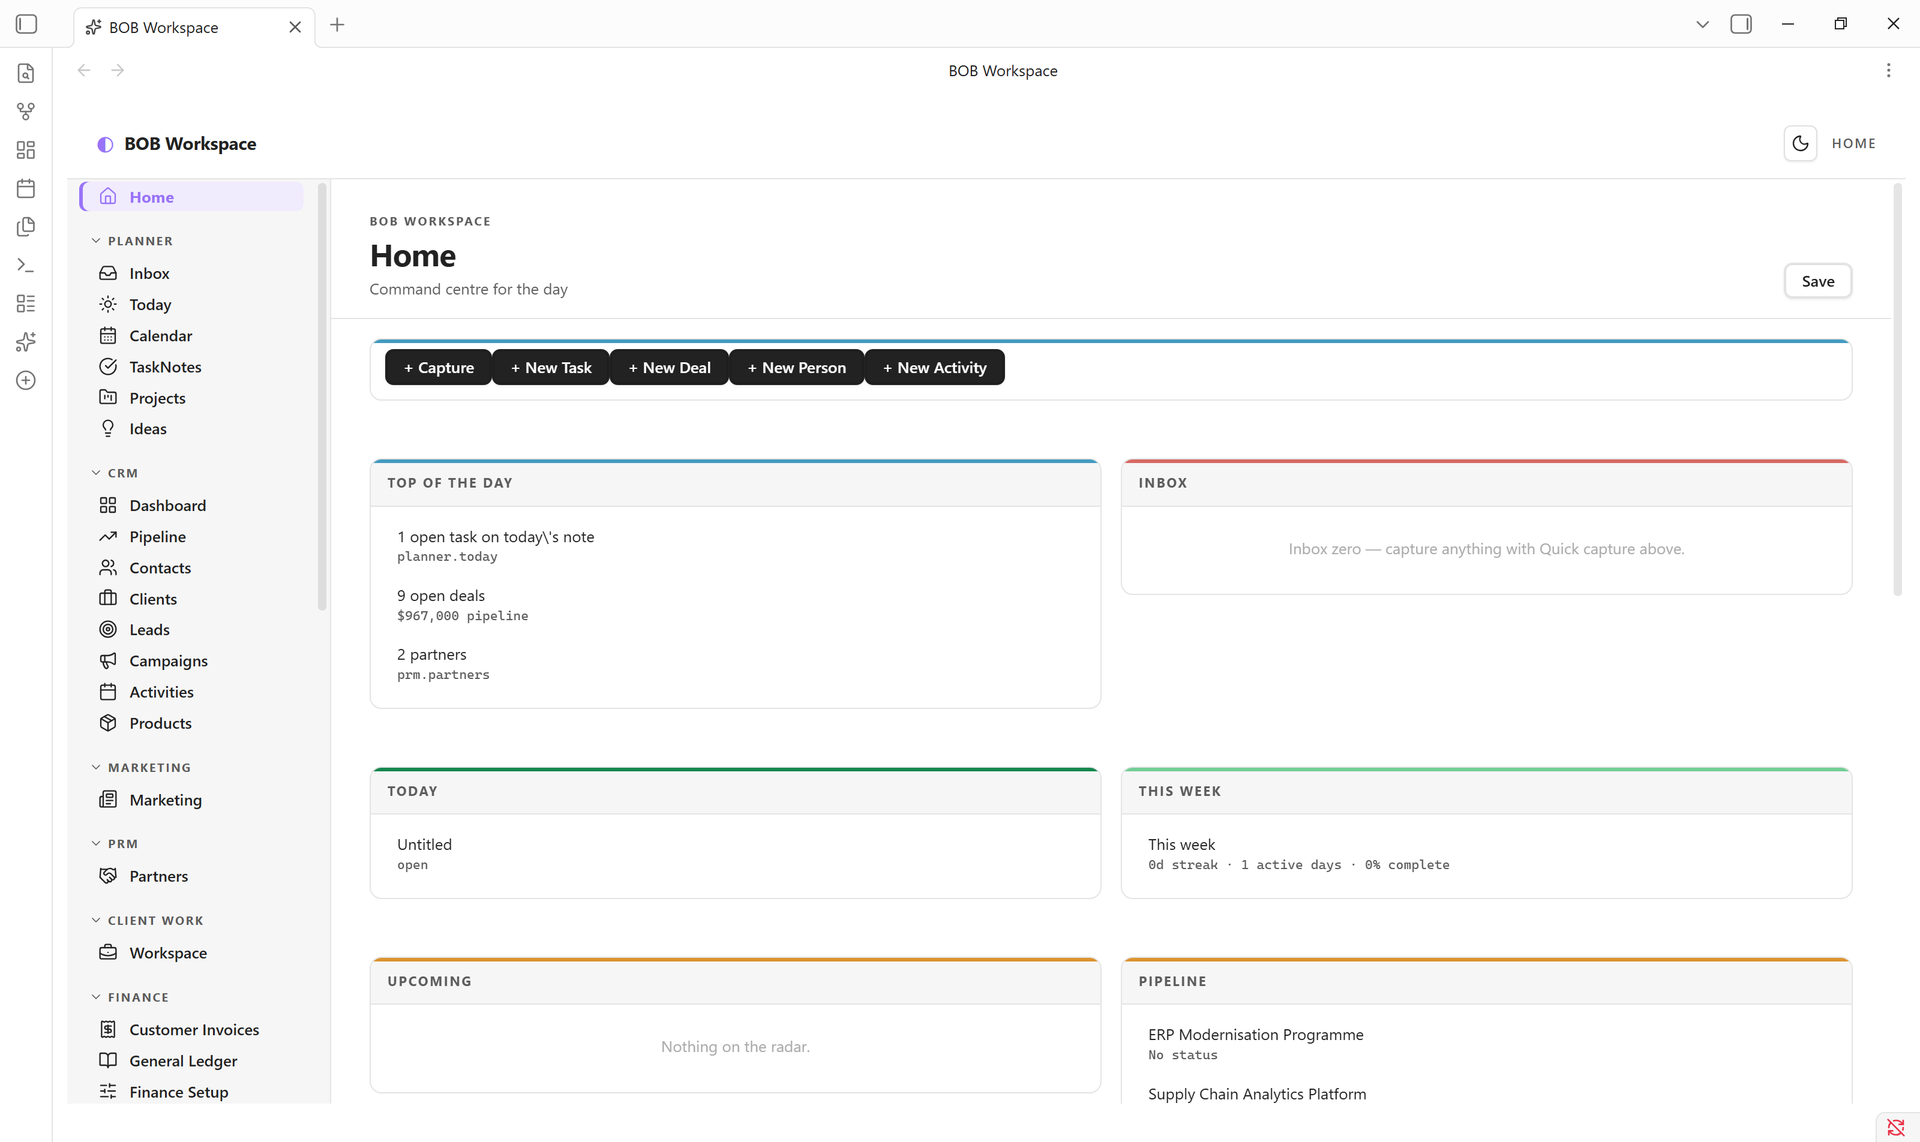
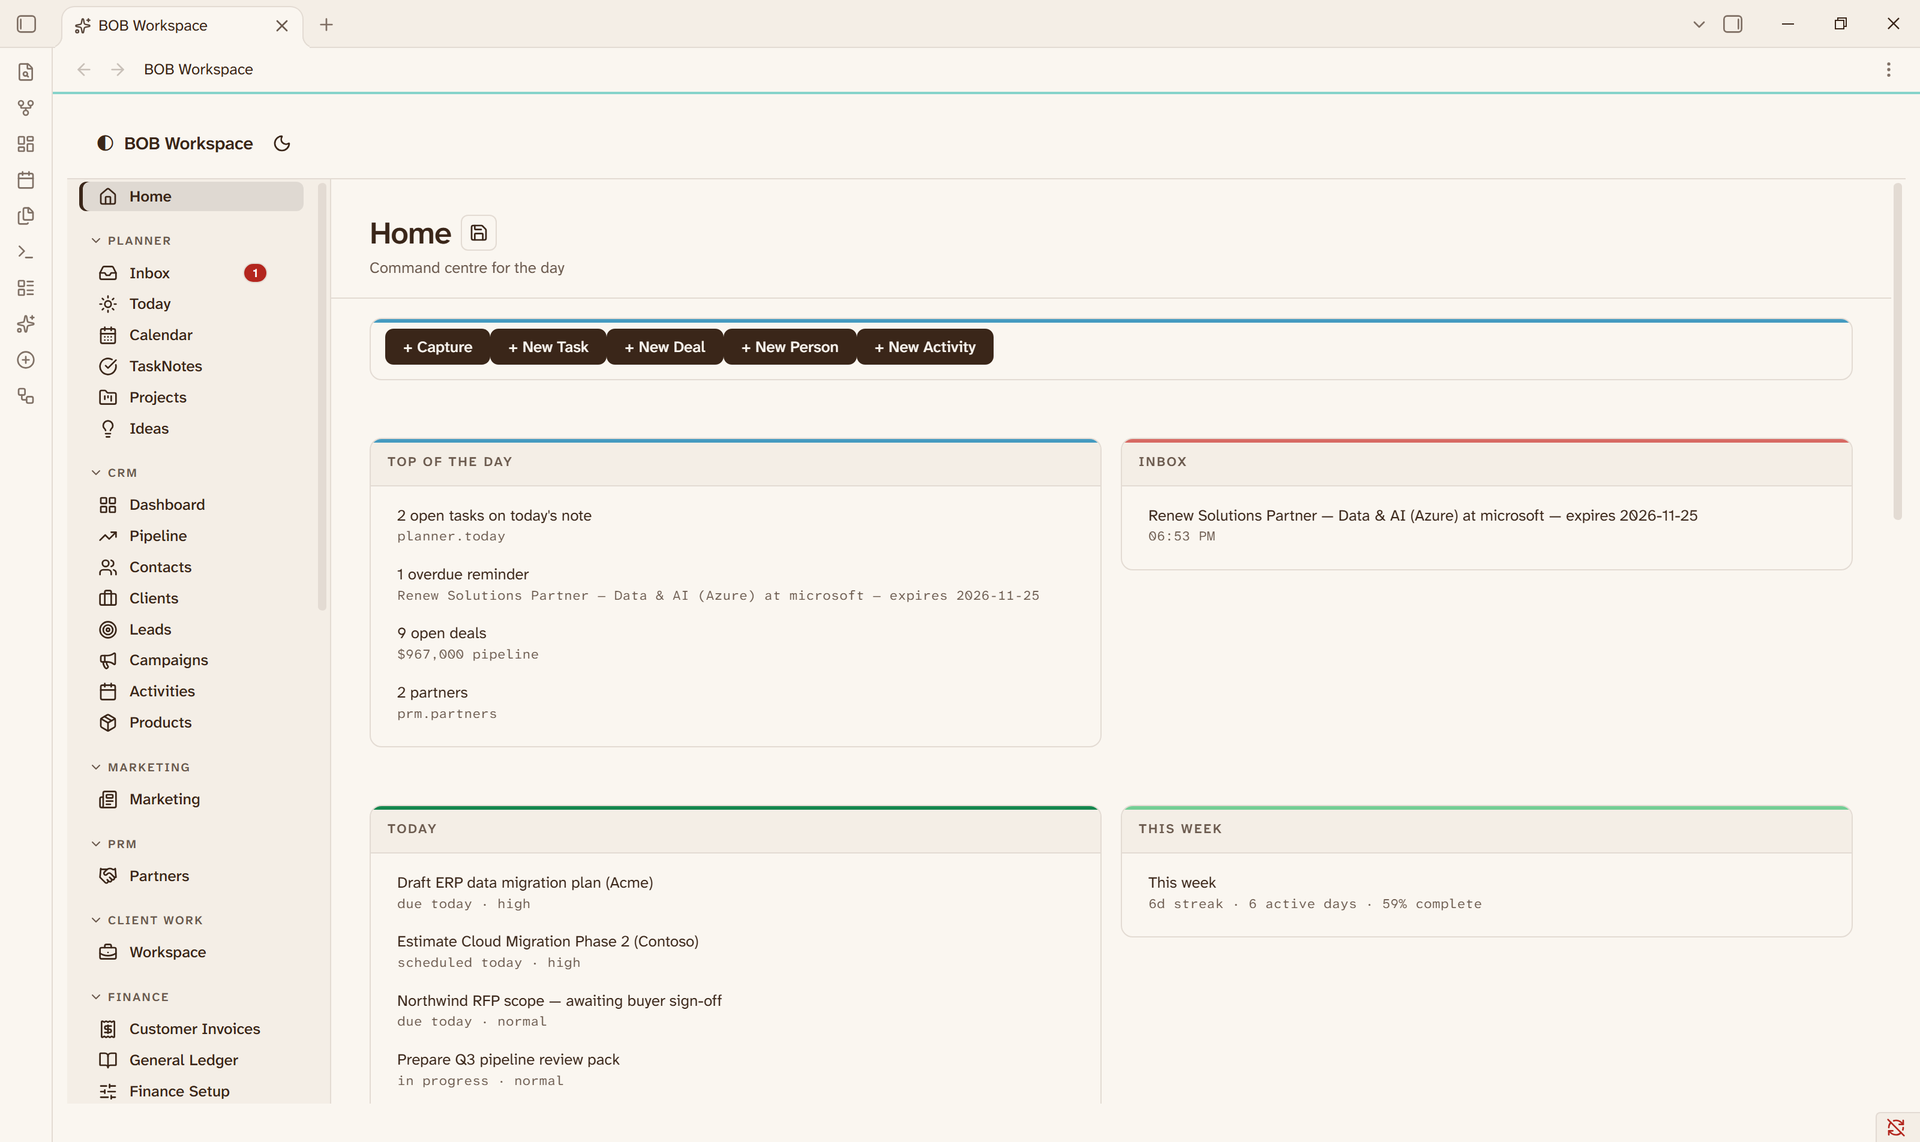
Replace README screenshots with 15 current demo-vault captures
Each image now sits beside its feature section (Planner, CRM, PRM, Client Work,
Finance, Suppliers, Projects, Reports, Canvas, AI Workspace, Bases-backed
views) instead of a 7-image gallery from 2026-07. Captured 2026-10-31 from the
fictional bob-demo vault with the ThirdBrain BOB theme and locale en-US, after
the display fixes in this release line. SUBMISSION.md lists the new set.

diff --git a/README.md b/README.md
@@ -10,20 +10,9 @@ Start with the [empty-vault quickstart](docs/empty-vault-quickstart.md) or [exis
 
 💬 **Docs, support, and community:** join the **ThirdBrain BOB** Skool community → https://www.skool.com/thirdbrain-tech-3102
 
-![BOB Workspace Home](docs/screenshots/01-home.png)
+![BOB Workspace Home — today's tasks, pipeline and reminders in one tab](docs/screenshots/01-home.png)
 
-## Screenshots
-
-|  |  |
-|---|---|
-| **CRM Pipeline** — deal kanban across stages | **CRM Dashboard** — metrics, recent leads & activity |
-| ![CRM Pipeline](docs/screenshots/02-pipeline.png) | ![CRM Dashboard](docs/screenshots/03-crm-dashboard.png) |
-| **Clients** — entity list with rich frontmatter | **Projects** — milestone progress across active work |
-| ![Clients](docs/screenshots/04-clients.png) | ![Projects](docs/screenshots/05-projects.png) |
-| **Customer Invoices** — finance & accounting surfaces | **AI Playbooks** — reusable, schema-backed workflows |
-| ![Customer Invoices](docs/screenshots/06-invoices.png) | ![AI Playbooks](docs/screenshots/07-playbooks.png) |
-
-*(Screenshots use a fictional demo vault — Acme / Contoso / Fabrikam — not real client data.)*
+*Screenshots throughout this README come from a fictional demo vault (Acme, Contoso, Fabrikam, Northwind, Adventure Works) — no real client data.*
 
 ---
 
@@ -52,25 +41,45 @@ Two-column dashboard: today's tasks (tickable inline) · this week's progress ·
 - **Projects** — status-grouped card grid with milestone progress and next-up dates
 - **Inbox** — universal capture + reminders; items grouped by Now / Today / This Week / Later
 
+![Planner Today — the daily note's tasks and journal](docs/screenshots/02-today.png)
+
+![Planner Calendar — tasks per day across the week](docs/screenshots/03-calendar.png)
+
 ### CRM
 - **Dashboard** — pipeline-by-stage bars, hot deals (top by value), stale deals (no edits in 14+ days), recent activity, customer base mini-stats
 - **Pipeline** — kanban board across deal stages; drag-and-drop a card to update its `stage` frontmatter; Won column gets a soft emerald tint
 - **Contacts / Companies / Activities** — sortable list views with rich frontmatter editing
 
+![CRM Pipeline — deal kanban with weighted forecast](docs/screenshots/04-pipeline.png)
+
+![CRM Dashboard — leads, contacts, campaigns and activities](docs/screenshots/05-crm-dashboard.png)
+
+![Contacts — a sortable entity list backed by markdown frontmatter](docs/screenshots/06-contacts.png)
+
 ### PRM
 Partners · Registrations · Commissions · Leads · Certifications · Analytics — same entity-list pattern, in their own folders, with status enums and Reports that aggregate across them.
+
+![PRM Partners — pending registrations, open commissions and expiring certifications](docs/screenshots/07-partners.png)
 
 ### Client Work
 A delivery overview across everything you do *for* a client after the deal is won: Meetings, Comms, Deliverables, Feedback, Surveys, Testimonials, Decisions — each its own tab, with client/project selectors that filter the whole workspace to one engagement.
 
+![Client Work — meetings, deliverables, comms, feedback and decisions for every engagement](docs/screenshots/08-client-work.png)
+
 ### Finance
 Customer Invoices, General Ledger, Finance Setup, Assets & Close, and Tax — accounting-period, bank-reconciliation, chart-of-accounts, VAT/corporate-tax and compliance record types, each with its own list and detail view. Built for tracking the finance side of a services business, not double-entry bookkeeping.
+
+![Customer Invoices — the invoice list with status and due dates](docs/screenshots/09-invoices.png)
 
 ### Suppliers & Procurement
 Suppliers, Supplier Invoices, Purchase Requisitions, Purchase Orders — the mirror image of the CRM/Finance pipeline for what you buy instead of what you sell.
 
+![Suppliers & Procurement — open supplier invoices, requisitions and purchase orders](docs/screenshots/10-suppliers.png)
+
 ### Project Management
 Click a project, get a **real PM surface** — not a markdown editor. Hero with status/priority pills, owner, due date, color-banded progress bar. Left column: tickable milestones (date + title + delete on hover) and tasks with `+ Add` buttons. Right column: Brief, Scope, Risks, Stakeholders, Notes — all autosaving textareas writing back to their H2 sections. `Open as note` for full body editing in Obsidian's editor.
+
+![Projects — milestone progress across active work](docs/screenshots/11-projects.png)
 
 ### Reminders
 Quick-capture with `Cmd+Shift+I` → modal with text, optional datetime, optional repeat (daily/weekly). The plugin ticks every 30 seconds and fires due reminders as in-app notices (and optionally desktop notifications). Snooze 15m / 1h / tomorrow on any reminder. The nav badge shows live overdue count.
@@ -78,11 +87,17 @@ Quick-capture with `Cmd+Shift+I` → modal with text, optional datetime, optiona
 ### Reports
 Pipeline · Sales · Partners · Activity · Productivity · KPI Scoreboard. These surfaces are config-driven dashboards with widget catalogs rather than separate hardcoded report screens. Productivity follows the configured task mode: daily note checkboxes, TaskNotes, or hybrid. TaskNotes history includes the active TaskNotes folder plus the configured archive folder.
 
+![Pipeline Report — filters, weighted forecast and open value by stage](docs/screenshots/12-pipeline-report.png)
+
 ### Canvas surfaces — context, not just diagrams
 BOB treats Obsidian's native **Canvas** as a render target for *operational context*, not a manual drawing tool. From any entity, generate a standard `.canvas` file: an **Entity Context** canvas (the record at centre, surrounded by its evidence, people/systems, outputs and risks, drawn from links + backlinks), an **Agent Audit** canvas for AI-run notes, a **Process runway** for anything with a stage/status lifecycle, or a **Pipeline board**. Regenerating refreshes BOB's own nodes while keeping anything you added by hand. The `.canvas` files are 100% standard JSON Canvas — portable to any tool that reads the format. See [Canvas surfaces](docs/canvas-surfaces.md).
 
+![Canvases — every canvas in the vault, with Generate for new context canvases](docs/screenshots/13-canvases.png)
+
 ### AI Workspace — Playbooks & Skills
 A place to keep your own reusable playbooks and AI agent skills as plain markdown/`SKILL.md` records — trigger, outcome, steps, duration — browsable and filterable like any other entity. BOB ships the record types, not content: a fresh vault starts with empty Playbooks/Skills lists ready for your own library.
+
+![AI Playbooks — trigger, outcome, steps and duration for each playbook](docs/screenshots/14-playbooks.png)
 
 ### More schema-backed domains
 The shipped **BOB Workspace** template also includes **Marketing** (content), **HR & People** (Recruiting, Payroll), **Research & Knowledge** (a research hub), and **Audit** (Operational Audit) — configured entirely through schema YAML and `workspace.json`, not hardcoded plugin code, so they're a starting point you're expected to reshape for your own vault.
@@ -98,6 +113,8 @@ Export your entities to a multi-sheet `.xlsx` workbook (one sheet per entity typ
 
 ### Bases-backed views
 Entity lists can be driven by Obsidian **Bases** (`.base`) files for richer filtering, sorting, and column control. The **Bases folder** setting resolves bare filenames; explicit vault paths stay at their configured locations, and **Generate missing bases** creates a starter `.base` (filter + table view) for any entity that doesn't have one — including entities you define purely via schema YAML. See *Configuration* below.
+
+![TaskNotes — a list driven by a Base view (This Week), with Open Base for the native view](docs/screenshots/15-tasknotes.png)
 
 ---
 

diff --git a/SUBMISSION.md b/SUBMISSION.md
@@ -28,18 +28,27 @@ Confirm these:
 
 ## Step 1 — Screenshots
 
-The current store set already lives in `docs/screenshots/` (referenced by the
-README gallery). They were captured from a **fictional demo vault** (Acme /
-Contoso / Fabrikam — no real client data) with only BOB Workspace enabled (clean
-chrome), at Full-HD width:
+The current store set lives in `docs/screenshots/`, each image placed beside its
+feature section in the README. Captured 2026-10-31 from a **fictional demo vault**
+(Acme / Contoso / Fabrikam / Northwind / Adventure Works — no real client data) with
+the ThirdBrain BOB theme, the workspace `locale` set to `en-US`, and the window at
+1920 px wide:
 
 1. `01-home.png` — Home command centre
-2. `02-pipeline.png` — CRM Pipeline kanban across stages
-3. `03-crm-dashboard.png` — CRM Dashboard (metrics + recent leads/activity)
-4. `04-clients.png` — Clients entity list
-5. `05-projects.png` — Projects with milestone progress
-6. `06-invoices.png` — Customer Invoices (finance surfaces)
-7. `07-playbooks.png` — AI Playbooks
+2. `02-today.png` — Planner Today
+3. `03-calendar.png` — Planner Calendar
+4. `04-pipeline.png` — CRM Pipeline kanban
+5. `05-crm-dashboard.png` — CRM Dashboard
+6. `06-contacts.png` — Contacts list
+7. `07-partners.png` — PRM Partners overview
+8. `08-client-work.png` — Client Work overview
+9. `09-invoices.png` — Customer Invoices
+10. `10-suppliers.png` — Suppliers & Procurement
+11. `11-projects.png` — Projects
+12. `12-pipeline-report.png` — Pipeline Report
+13. `13-canvases.png` — Canvases
+14. `14-playbooks.png` — AI Playbooks
+15. `15-tasknotes.png` — TaskNotes (Bases-backed view)
 
 **To regenerate** (e.g. after a UI change): build the demo vault and drive the
 capture from WSL with the `bob-workspace-screenshots` skill —

diff --git a/CHANGELOG.md b/CHANGELOG.md
@@ -6,6 +6,11 @@ All notable changes to BOB Workspace are documented here. Format follows
 
 ## [Unreleased]
 
+### Documentation
+
+- README screenshots replaced: 15 current images from the demo vault, each beside its feature
+  section (was a 7-image gallery from 2026-07 with a stray backslash on Home).
+
 ### Added
 
 - **Date and number format** (Settings → App, `locale` in `workspace.json`): a language tag such as
